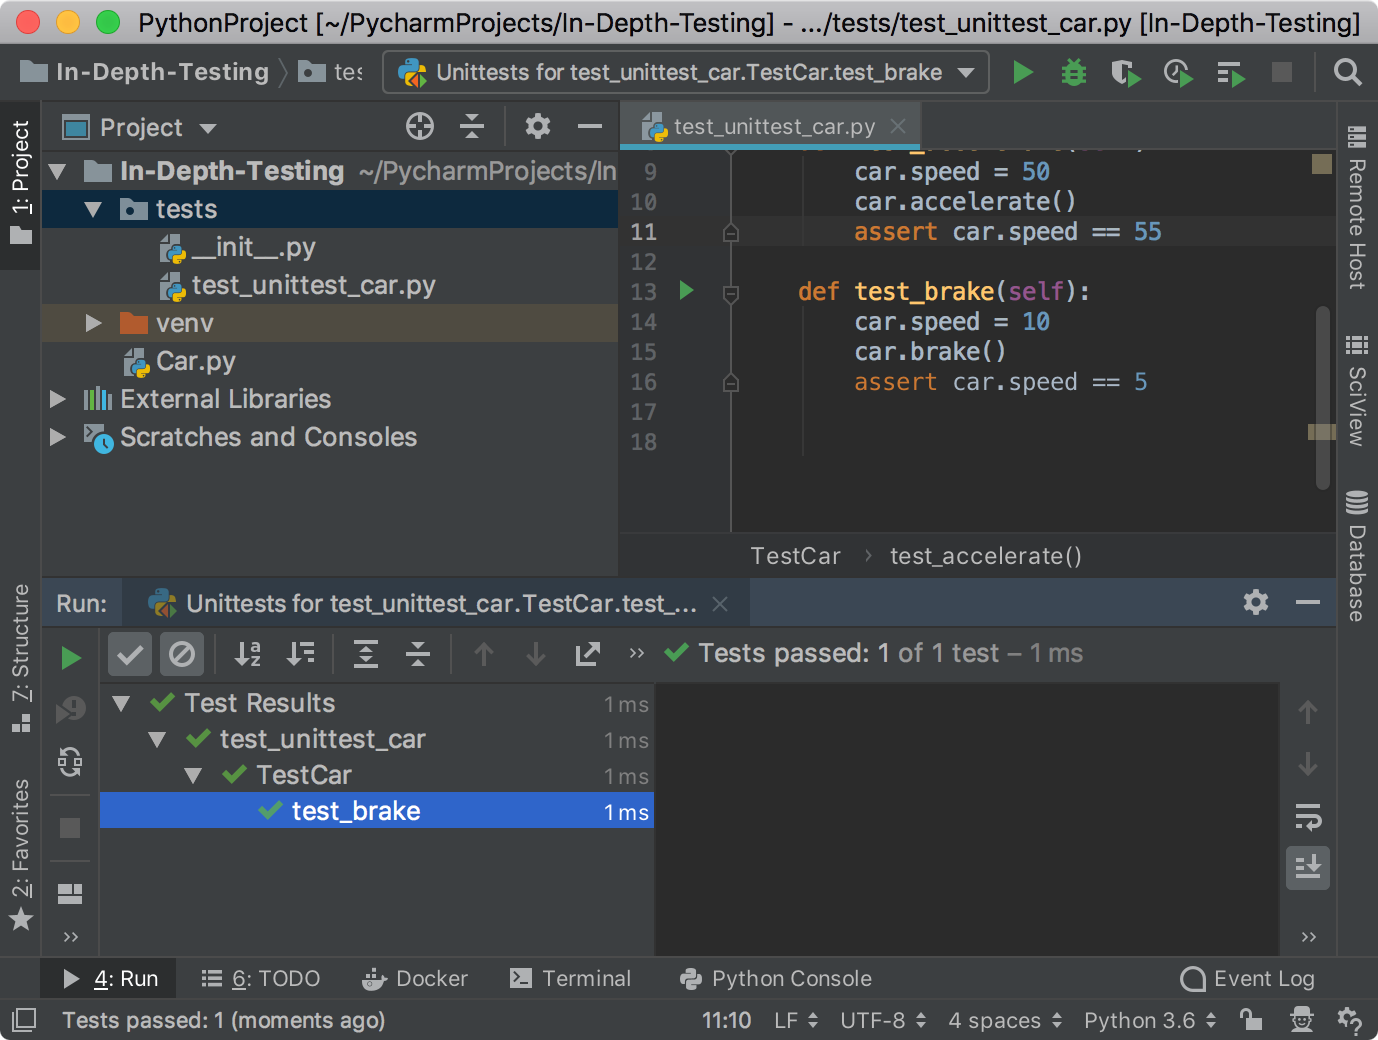
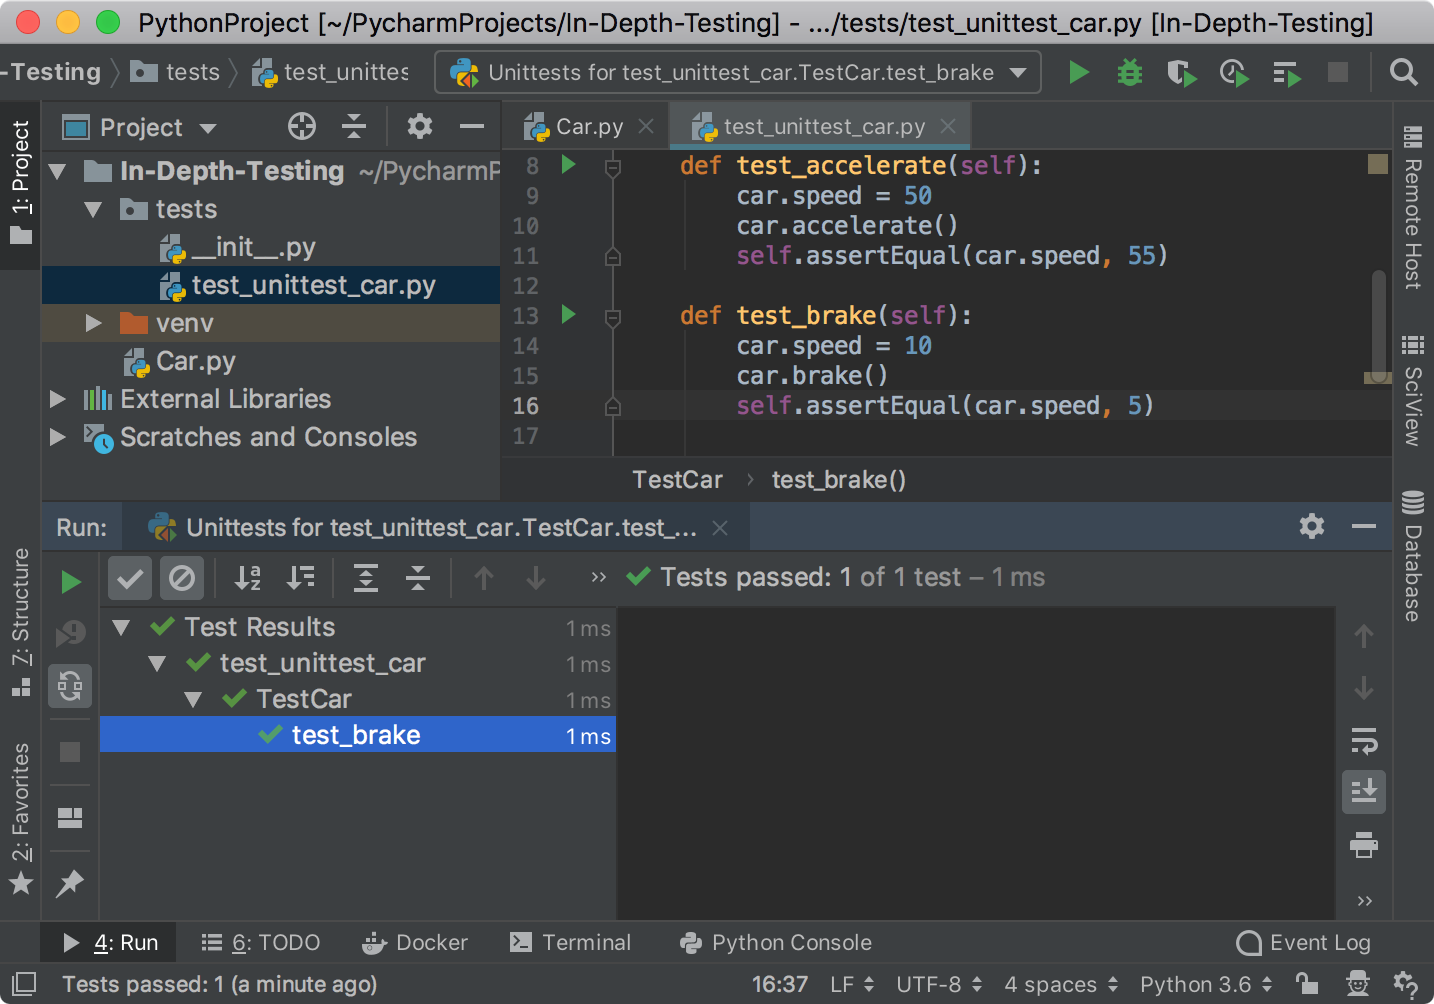
Run, rerun, rerun automatically

diff --git a/src/pages/tutorials/in_depth_testing/run_test/index.md b/src/pages/tutorials/in_depth_testing/run_test/index.md
@@ -13,6 +13,7 @@ In this step, you learn how to run tests and evaluate the execution results.
 
 **Powerful Shortcuts**: 
 -  `Shift-10` (Win/Linux) or `Ctrl-R` (macOS) to execute a test.
+-  `Ctrl-F5` (Windows) or `Cmd-R` (macOS) to rerun all failed tests
 
 **How you can run the test**
 - Shortcuts
@@ -20,7 +21,7 @@ In this step, you learn how to run tests and evaluate the execution results.
 - Context menu in the test code
 - Context menu in the test tree of the **Test runner** tab 
 
-# Run the test
+# Execute a test suite
 
 The easiest way to execute the test is to press `Shift-10` (Win/Linux) or `Ctrl-R` (macOS).
 The **Run** tool window opens and shows the test execution status:
@@ -28,15 +29,32 @@ The **Run** tool window opens and shows the test execution status:
 ![Failed test](screenshots/test_run_test_fail.png)
 
 Although the very first test is quite simple, you can obtain the detailed information about the 
-test execution in the **Test Runner** tab. One of two tests fails. The assertion error is reported for 
-`car.speed == 15`.
+test execution in the **Test Runner** tab of the **Run** window. 
 
-Examine the **Test Runner** tab of the **Run** window.
 It has two toolbars to perform various actions with tests:
  - The <a href="https://www.jetbrains.com/help/pycharm/test-runner-tab.html#runToolbar" target="_blank">Run toolbar</a> 
- the left (vertical) toolbar that enables
+ the left (vertical) toolbar that enables you to rerun tests or setup an auto-rerun mode.
  - The <a href="https://www.jetbrains.com/help/pycharm/test-runner-tab.html#testingToolbar" target="_blank">Testing toolbar</a>
-  the top (horizontal) toolbar that  
+  the top (horizontal) toolbar that enables you to monitor the tests and analyze results 
+  
+The left-hand pane shows the tree view of all tests:
+- The root node represents the test selected to run.
+- The nested nodes represent the hierarchy of test suites and test cases.
+- The leaf nodes represent the individual tests.
+The status of each test is indicated by an icon. One of two tests fails. 
+
+The output pane shows the output of the current test suit. The assertion error is reported for 
+`car.speed == 15`.  
+
+# View differences
+
+Note that because you use the `assertEqual` function in your tests, the test runner provides the 
+ability to compare the actual and expected values of the variable being asserted.
+Click the **Click to see difference** link to preview the variable values in the **Difference viewer**
+
+![Compare variable values in the Difference viewer](screenshots/test_view_differences.png)
+
+# Rerun the failed test
 
 Now modify the `test_brake` function to pass the test:
 
@@ -44,17 +62,26 @@ Now modify the `test_brake` function to pass the test:
 def test_brake(self):    
     car.speed = 10
     car.brake()
-    assert car.speed == 5
+    self.assertEqual(car.speed, 5)
 ```
-This change should make the test successful. There is no need to rerun all tests in the `TestCar` class.
-To run each test function separately, you can opt to an alternative way for executing tests and
-scripts in PyCharm - clicking the corresponding **Run** icon in the left gutter of the **Editor**
+This change should make the test successful. You can press `Ctrl-F5` (Windows) or `Cmd-R` (macOS)
+to rerun the tests. However, there is no need to rerun all tests in the `TestCar` class.
+To run each test function separately, you can either use the context menu for a particular test 
+in the test suite tree or click the corresponding **Run** icon in the left gutter of the **Editor**.
 
  ![Run test using the icon in the left gutter](screenshots/test_run_menu.png)
 
 The **Test runner** tab shows that the test passed without any assertion errors. 
+Because this time you have executed only the `test_brake` test, the **Test Runner** shows only 
+specific execution details. 
 
 ![Run test](screenshots/test_run_test.png)
 
 # Rerun tests automatically
-TODO
+
+PyCharm lets you rerun any test automatically.
+
+![Rerun tests automatically](screenshots/test_rerun_icon.png)
+
+Just click the **Rerun** button on the **Run** toolbar and each time the source code has been changed,
+ the test will be rerun automatically 

diff --git a/src/pages/tutorials/in_depth_testing/create_test/index.md b/src/pages/tutorials/in_depth_testing/create_test/index.md
@@ -51,7 +51,7 @@ class TestCar(TestCase):
     def test_accelerate(self):
         car.speed = 50
         car.accelerate()
-        assert car.speed == 55
+        self.assertEqual(car.speed, 55)
 ```
 
 This test checks if `speed` equals 55 after the `accelerate` function is executed.
@@ -73,12 +73,12 @@ class TestCar(TestCase):
     def test_accelerate(self):
         car.speed = 50
         car.accelerate()
-        assert car.speed == 55
+        self.assertEqual(car.speed, 55)
         
     def test_brake(self):
         car.speed = 10
         car.brake()
-        assert car.speed == 15
+        self.assertEqual(car.speed, 15)
 ```
 
 6. To verify that the `test_brake` function tests the `Car.brake` function, let's jump to the test subject.

diff --git a/src/pages/tutorials/in_depth_testing/index.md b/src/pages/tutorials/in_depth_testing/index.md
@@ -16,8 +16,11 @@ thumbnail: './thumbnail.png'
 
 With PyCharm you can test your Python applications
 using one of your favorite testing frameworks:
-- Python unittests
-- pytest
+- Create test
+- Run test on demand and automatically
+- Parametrize tests, use sets of testing data
+- Implement test scenarios
+- 
 - Python nosetests
 - Python doctests
 - Tox
